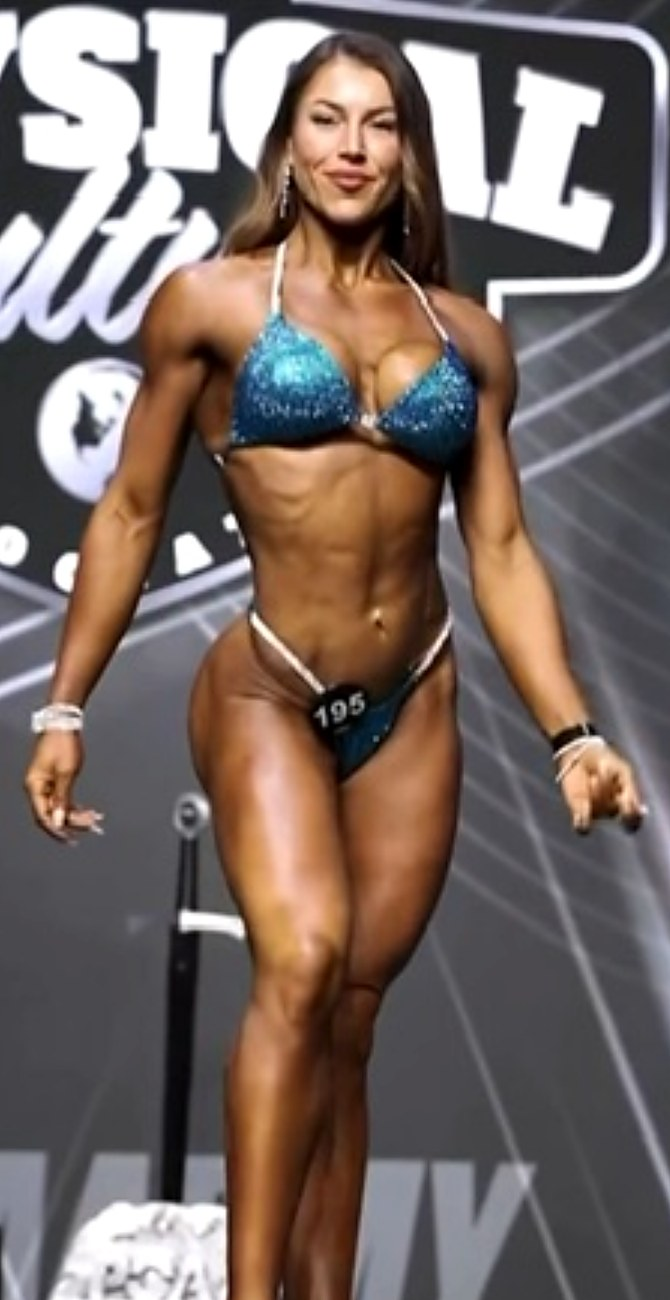
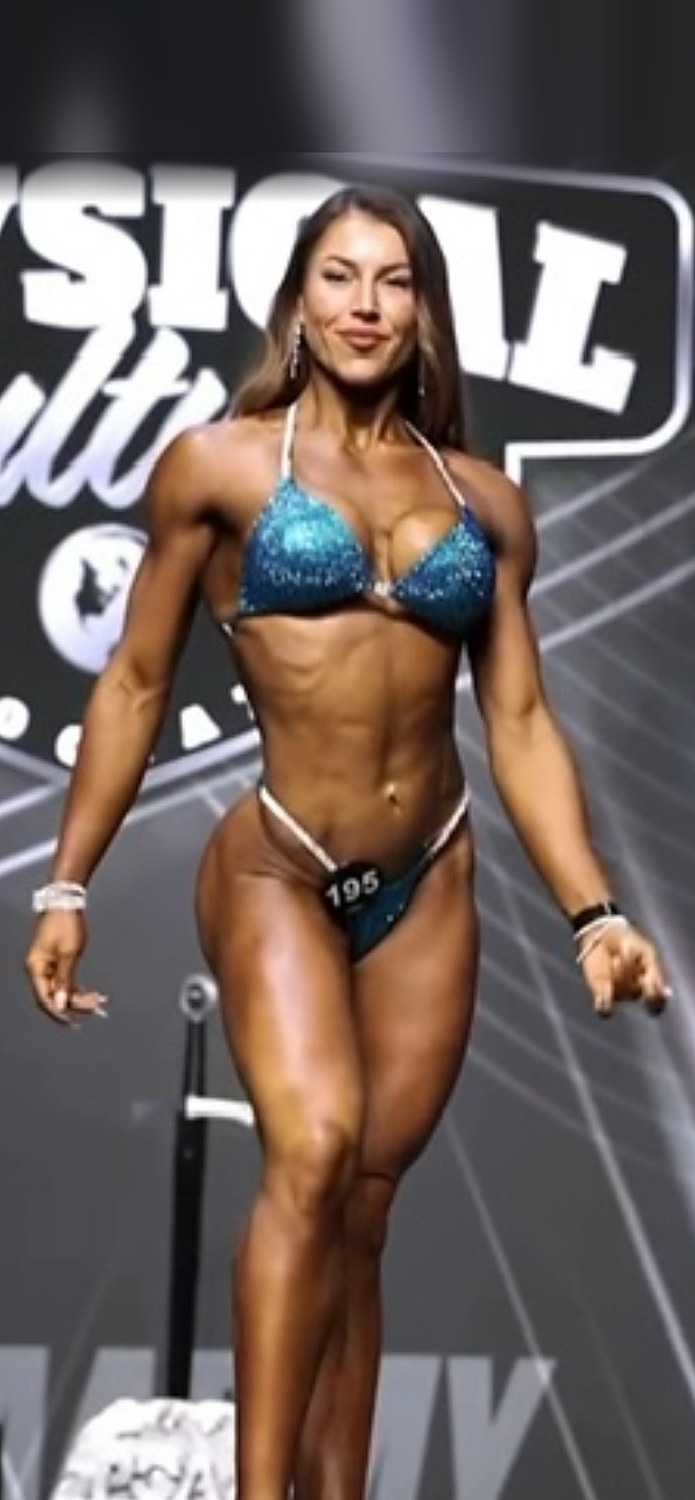
Show-day crops fixed; photo in Sound familiar; reviews stacked compactly on phones
Claude-Session: https://claude.ai/code/session_015XSugpsA4pMuQiXSG2N85G

diff --git a/index.html b/index.html
@@ -204,7 +204,7 @@ details p{margin:10px 0 0;font-size:15px;color:#3a362e}
 .about-hero{width:100%;border-radius:12px;border:1px solid rgba(201,166,75,.45);aspect-ratio:4/5;object-fit:cover;object-position:center 20%}
 .stage{display:grid;grid-template-columns:1fr 1.15fr 1fr;gap:8px;margin:6px 0 26px;align-items:center}
 .stage img{width:100%;aspect-ratio:3/5;object-fit:cover;object-position:center top;border-radius:10px;border:1px solid rgba(201,166,75,.5);box-shadow:0 8px 24px rgba(0,0,0,.45)}
-.stage img:nth-child(2){aspect-ratio:3/5.4;border-color:var(--gold);object-position:center center}
+.stage img:nth-child(2){aspect-ratio:3/5.4;border-color:var(--gold);object-position:center top}
 .caption-small{text-align:center;font-size:12px;letter-spacing:.16em;text-transform:uppercase;color:#a89a78;margin-top:12px}
 .links{background:#111;padding:10px 0 40px}
 .lk{display:flex;justify-content:space-between;align-items:center;gap:12px;text-decoration:none;color:#f3ecdc;border:1px solid rgba(201,166,75,.45);border-radius:14px;padding:17px 20px;margin-bottom:12px;font-weight:600;font-size:15px;background:#1a1916}
@@ -358,12 +358,18 @@ section[id],header[id]{scroll-margin-top:84px}
 .r-col{display:flex;flex-direction:column;gap:16px}
 .r-mid{order:-1}
 @media(max-width:1023px){
-  .reviews{flex-direction:row;overflow-x:auto;scroll-snap-type:x mandatory;margin:40px -22px 0;padding:0 22px 8px;scrollbar-width:none;align-items:flex-start}
-  .reviews::-webkit-scrollbar{display:none}
+  .reviews{flex-direction:column;gap:12px}
   .r-col{display:contents}
-  .reviews .tcard{flex:0 0 86%;scroll-snap-align:center}
   .reviews .t-feature{order:-1}
+  .r-side .tcard{padding:18px 18px 16px}
+  .r-side .tcard blockquote{font-size:15.5px;margin-bottom:10px;display:-webkit-box;-webkit-line-clamp:4;-webkit-box-orient:vertical;overflow:hidden;cursor:pointer}
+  .r-side .tcard.open blockquote{-webkit-line-clamp:unset;display:block}
+  .r-side .tcard .more{display:inline-block;font-size:12px;font-weight:700;letter-spacing:.12em;text-transform:uppercase;color:var(--gold);margin:-4px 0 10px;cursor:pointer}
+  .r-side .tcard.open .more{display:none}
+  .r-side .tcard .stars{margin-bottom:6px}
+  .r-hint{display:none}
 }
+@media(min-width:1024px){.tcard .more{display:none}}
 .r-hint{text-align:center;font-size:12px;letter-spacing:.2em;text-transform:uppercase;color:#a89a78;margin-top:10px}
 @media(min-width:1024px){.r-hint{display:none}}
 @media(min-width:1024px){
@@ -373,6 +379,16 @@ section[id],header[id]{scroll-margin-top:84px}
   .t-feature{border-color:var(--gold);box-shadow:0 14px 40px rgba(0,0,0,.45)}
   .t-feature .tvid video{max-width:100%}
 }
+.sf-photo{margin:22px 0}
+.sf-photo img{width:100%;aspect-ratio:4/5;object-fit:cover;object-position:center 15%;border-radius:16px;border:1.5px solid rgba(156,122,44,.55);box-shadow:0 14px 34px rgba(0,0,0,.16)}
+.sf-photo figcaption{font-family:var(--serif);font-style:italic;color:var(--gold-d);text-align:center;margin-top:10px;font-size:16px}
+@media(min-width:1024px){
+  #sf .wrap{max-width:1100px;display:grid;grid-template-columns:1.15fr .85fr;column-gap:56px;align-items:start}
+  #sf .wrap>*{grid-column:1}
+  #sf .sf-photo{grid-column:2;grid-row:1 / span 7;position:sticky;top:110px;margin:0}
+}
+.three div{transition:transform .2s}
+.three div:hover{transform:translateY(-4px)}
 </style>
 </head>
 <body>
@@ -439,7 +455,7 @@ section[id],header[id]{scroll-margin-top:84px}
 </section>
 
 <!-- SOUND FAMILIAR -->
-<section>
+<section id="sf">
   <div class="wrap">
     <div class="eyebrow">Sound familiar?</div>
     <h2>Always starting over? <em>I can help you fix that.</em></h2>
@@ -447,6 +463,7 @@ section[id],header[id]{scroll-margin-top:84px}
     <div class="mon"><div class="cal">MON</div><div>
       <p class="t">"Fresh Start Monday": a track record</p>
       <p>Times started: every week. Times it made it past Wednesday: zero. Last seen near the biscuit tin.</p></div></div>
+    <figure class="sf-photo"><img src="img/maria-gym-pose.jpg" alt="Maria in the gym" loading="lazy"><figcaption>I've been on the restart cycle too. Now I coach people off it.</figcaption></figure>
     <div class="quote">The problem isn't that you don't care, or that you aren't trying hard enough. It's that you've never had the right structure and guidance to make it stick, or someone to teach you when to push and when to pull back.</div>
     <p>Over the years, I've seen exactly where people get stuck and, more importantly, how to get them out of it. I've also been coached by many different coaches myself, and I've taken the best of each of their styles and blended them into one approach that actually works.</p>
 
@@ -863,6 +880,15 @@ var GUIDE_FORM={action:"",name:"",email:"",guide:""};
   ['mouseleave','touchend','focusout'].forEach(function(e){g.addEventListener(e,function(){setTimeout(function(){paused=false},2500)},{passive:true})});
   if(!window.matchMedia('(prefers-reduced-motion: reduce)').matches) reset();
 })();
+</script>
+<script>
+document.querySelectorAll('.r-side .tcard').forEach(function(c){
+  var q=c.querySelector('blockquote'); if(!q) return;
+  var m=document.createElement('span'); m.className='more'; m.textContent='Read more';
+  q.after(m);
+  requestAnimationFrame(function(){ if(q.scrollHeight<=q.clientHeight+2) m.style.display='none'; });
+  c.addEventListener('click',function(){c.classList.add('open')});
+});
 </script>
 </body>
 </html>
